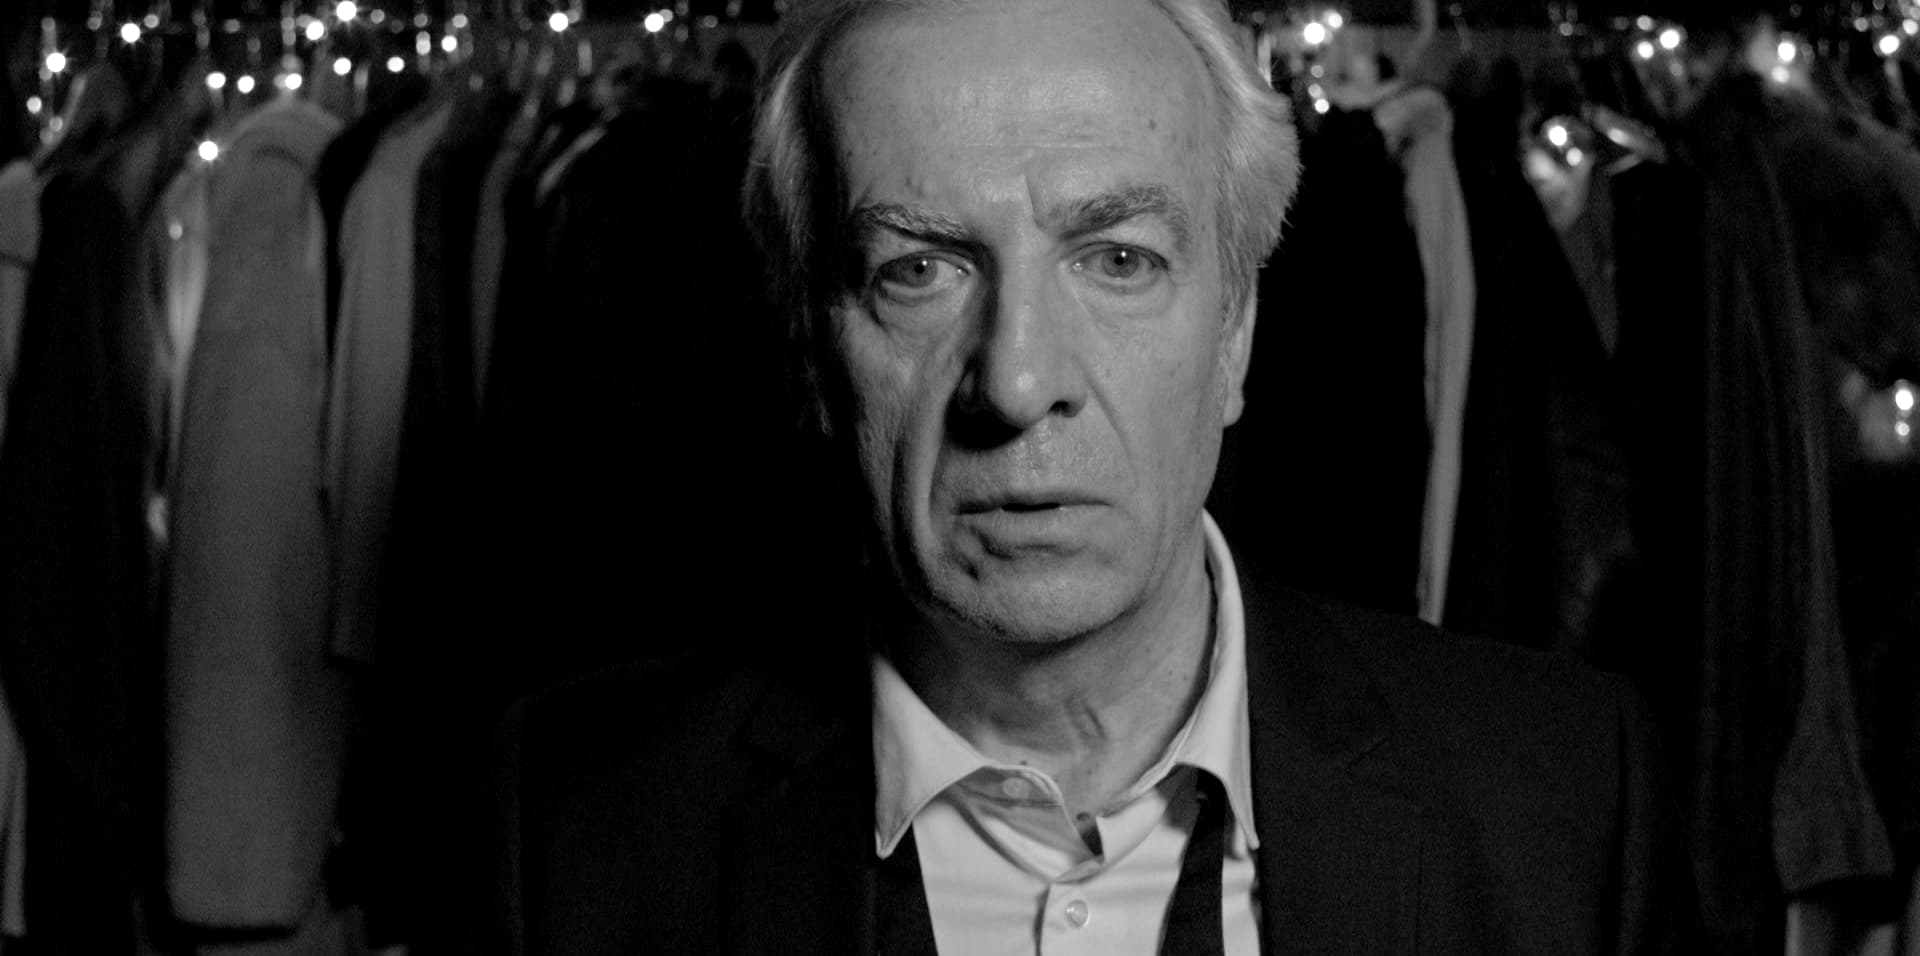
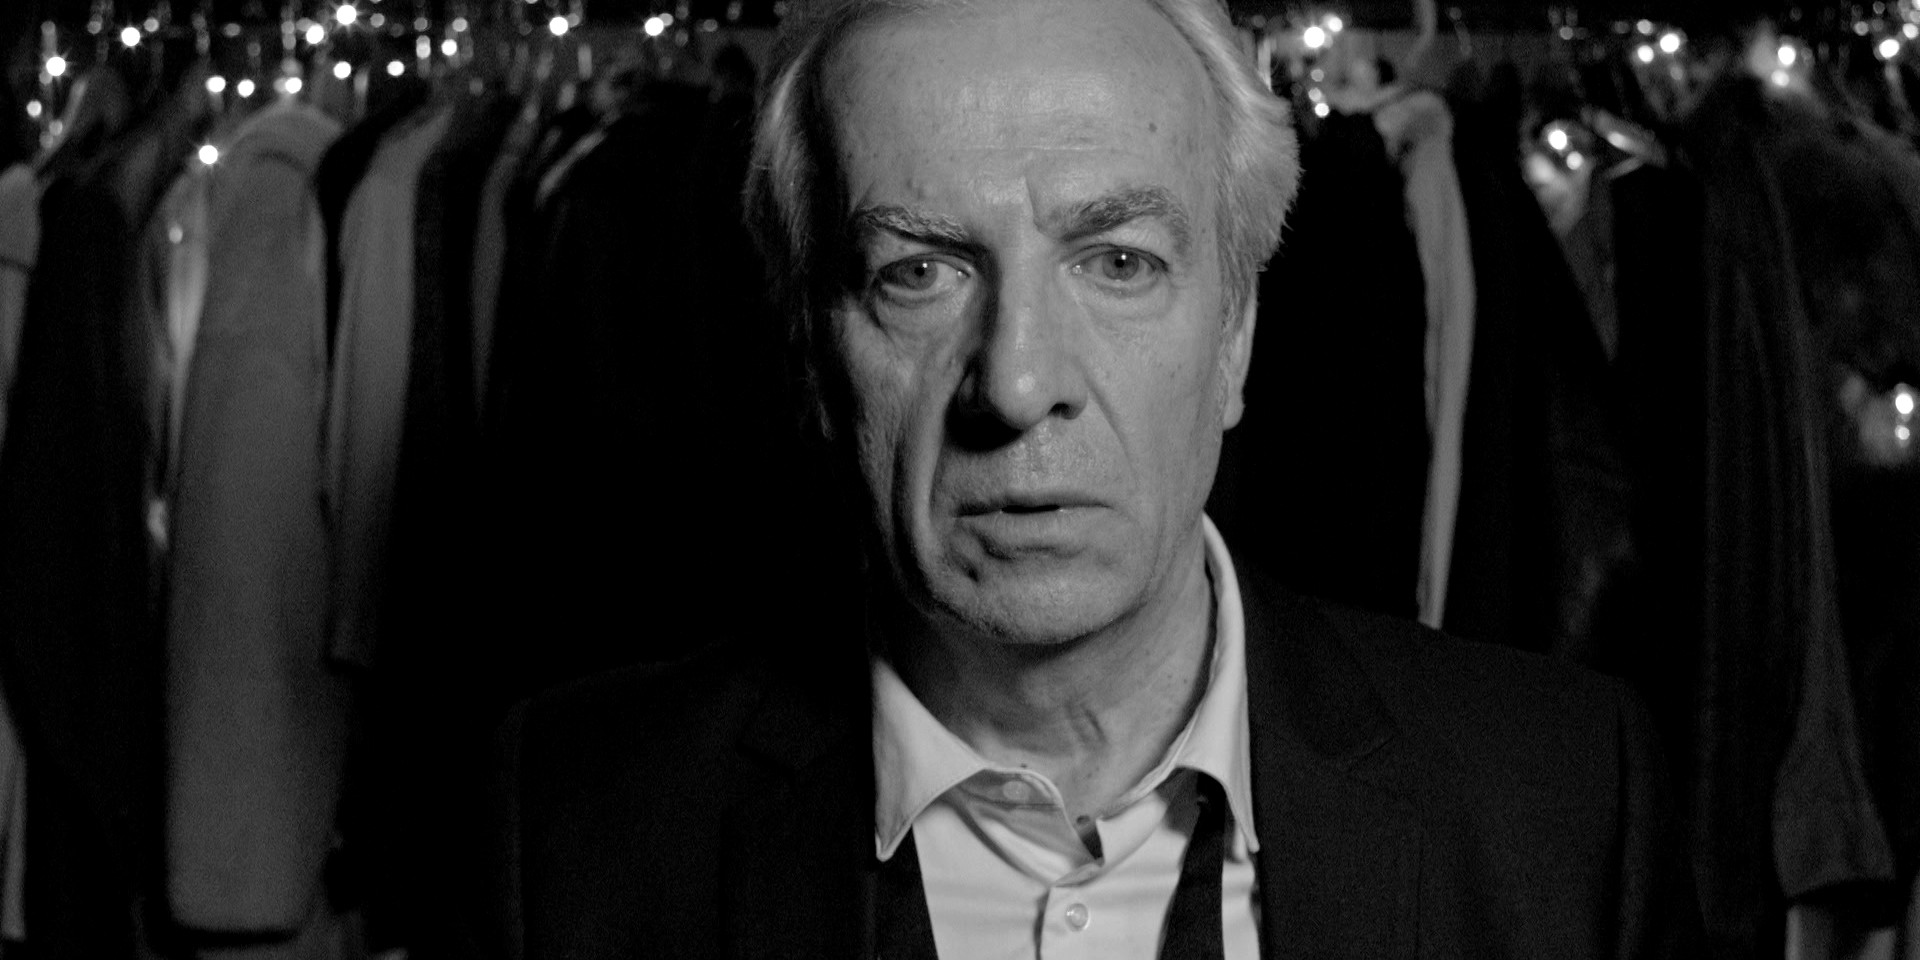
Bio sur l'accueil, page Contact corrigée, images hero en meilleure qualité
- Bio courte sous le hero, la flèche du hero y descend
- Contact : bloc dans le flux normal (ne passe plus sous l'en-tête),
  ligne d'infos pratiques
- Expériences : Verone Productions, PLK au Stade de France, Taratata au Zénith
- Hero : stills Insipide haute définition, Vagues et Vedette réextraites
  des masters ProRes (même étalonnage, beaucoup moins compressées)
- Sitemap : ajout de /experiences

diff --git a/src/data/projectsData.js b/src/data/projectsData.js
@@ -1382,11 +1382,11 @@ export const projectsData = {
   autres: [
     {
       id: 'veronne-production',
-      title: 'Veronne Production',
+      title: 'Verone Productions',
       year: '2026',
       role: 'Road',
       duree: 'Depuis juin 2026',
-      description: 'Montage, exploitation et démontage sur des concerts et des festivals, dont le Main Square Festival 2026.'
+      description: 'Montage, exploitation et démontage sur des concerts et des festivals : Main Square Festival 2026, PLK au Stade de France et Taratata au Zénith de Paris.'
     },
     {
       id: 'alive-production',
@@ -1440,48 +1440,31 @@ export const projectsData = {
 // ========== DONNÉES "À PROPOS" ==========
 export const aboutData = {
   title: 'Théo Sury',
-  subtitle: 'Chef-opérateur & Technicien lumière',
-  specialization: 'Fiction, clips & formats courts',
+  subtitle: 'Chef-opérateur & Électricien',
+  specialization: 'Fiction, clips, publicité & concerts',
   location: 'Lille / Paris',
-  
-  bio: `Technicien lumière et chef-opérateur, je me spécialise dans la fiction et les clips musicaux.
 
-Mon parcours m'a conduit de la régie au poste de chef-opérateur, en passant par l'assistanat caméra et l'électricité. Cette polyvalence me permet d'appréhender chaque projet avec une vision technique complète.
+  bio: `Chef-opérateur et électricien basé à Lille, je travaille en fiction, en publicité, en clip et en captation. J'interviens aussi en road sur des concerts et des festivals, du Main Square au Stade de France.
 
-J'interviens actuellement sur des courts et moyens-métrages, des clips musicaux et des formats courts, avec un intérêt particulier pour la direction artistique lumière.`,
-  
+Je suis passé par la régie, la caméra et la lumière : je connais le plateau de l'intérieur et la place de chacun dans une équipe. C'est cette expérience que je mets au service de chaque projet, du court au long-métrage.
+
+Disponible en renfort électro et road, et à l'écoute de tout projet en tant que chef-opérateur.`,
+
   skills: [
     'Direction de la photographie',
-    'Chef électricien',
-    'Technicien lumière',
-    'Assistant caméra',
-    'Régie lumière',
-    'Étalonnage'
+    'Électricité plateau & chef électro',
+    'Assistanat caméra',
+    'Road : montage, exploitation, démontage',
+    'Étalonnage',
+    'Photographie'
   ],
-  
-  parcours: [
-    {
-      year: '2025',
-      title: 'Chef-opérateur freelance',
-      description: 'Fiction et clips musicaux'
-    },
-    {
-      year: '2024',
-      title: 'Chef électricien',
-      description: 'Courts-métrages et productions'
-    },
-    {
-      year: '2024',
-      title: 'Stage Panavision ALGA',
-      description: 'Maintenance caméra et filtres'
-    },
-    {
-      year: '2024',
-      title: '3e assistant caméra - DNA',
-      description: 'Fédération Entertainment'
-    }
+
+  // Infos utiles à un employeur qui cherche un renfort
+  pratique: [
+    'Basé à Lille, mobile sur Paris et les Hauts-de-France',
+    'Permis B, véhiculé'
   ],
-  
+
   contact: {
     email: 'theosury@gmail.com',
     phone: '07 50 84 62 01',

diff --git a/src/components/Contact/Contact.css b/src/components/Contact/Contact.css
@@ -28,24 +28,31 @@
 .contact__content {
   max-width: 700px;
   margin: 0 auto;
-  text-align: center;
+  padding-bottom: 5rem;
   display: flex;
   flex-direction: column;
   align-items: center;
-  position: absolute;
-  top: 50%;
-  left: 50%;
-  transform: translate(-50%, -50%);
-  width: calc(100% - 4rem);
 }
 
 .contact__subtitle {
   font-size: 1.1rem;
+  text-align: center;
   color: var(--color-text-secondary);
-  margin-bottom: var(--spacing-lg);
+  margin: 2rem 0 var(--spacing-lg);
+}
+
+.contact__pratique {
+  margin-top: 2.5rem;
+  font-size: 0.72rem;
+  text-align: center;
+  text-transform: uppercase;
+  letter-spacing: 0.12em;
+  line-height: 2;
+  opacity: 0.5;
 }
 
 .contact__methods {
+  width: 100%;
   display: grid;
   grid-template-columns: 1fr;
   gap: var(--spacing-sm);

diff --git a/src/pages/Home.css b/src/pages/Home.css
@@ -1,3 +1,24 @@
+.home-intro {
+  max-width: 44rem;
+  margin: 0 auto;
+  padding: calc(var(--spacing-xl) + 1rem) 2rem 0;
+}
+
+.home-intro p {
+  font-size: 1.05rem;
+  line-height: 1.8;
+  opacity: 0.85;
+}
+
+.home-intro p + p {
+  margin-top: 1.1rem;
+}
+
+/* L'intro remplace l'espace d'en-tête prévu au-dessus des projets */
+.home-intro + .hero-projects {
+  padding-top: var(--spacing-xl);
+}
+
 .home-cta {
   background-color: var(--color-bg);
   text-align: center;
@@ -11,6 +32,14 @@
 }
 
 @media (max-width: 768px) {
+  .home-intro {
+    padding: var(--spacing-lg) 1rem 0;
+  }
+
+  .home-intro p {
+    font-size: 1rem;
+  }
+
   .home-cta {
     padding: var(--spacing-lg) 0;
   }

diff --git a/src/pages/Home.jsx b/src/pages/Home.jsx
@@ -1,6 +1,7 @@
 import React, { useEffect } from 'react';
 import Hero from '../components/Hero/Hero';
 import HeroProjects from '../components/HeroProjects/HeroProjects';
+import { aboutData } from '../data/projectsData';
 import './Home.css';
 
 const Home = () => {
@@ -11,6 +12,11 @@ const Home = () => {
   return (
     <div className="home">
       <Hero />
+      <section className="home-intro" id="home-intro">
+        {aboutData.bio.split('\n\n').map((paragraphe, i) => (
+          <p key={i}>{paragraphe}</p>
+        ))}
+      </section>
       <HeroProjects />
     </div>
   );

diff --git a/src/components/Hero/Hero.jsx b/src/components/Hero/Hero.jsx
@@ -97,7 +97,7 @@ function Hero() {
       <button
         className="hero-cta"
         onClick={() => {
-          const section = document.getElementById('hero-projects');
+          const section = document.getElementById('home-intro') || document.getElementById('hero-projects');
           if (section) {
             const offset = 80;
             const elementPosition = section.getBoundingClientRect().top;

diff --git a/src/components/Contact/Contact.jsx b/src/components/Contact/Contact.jsx
@@ -73,6 +73,8 @@ const Contact = () => {
             )}
 
           </div>
+
+          <p className="contact__pratique">{aboutData.pratique.join(' · ')}</p>
         </div>
       </div>
     </section>
